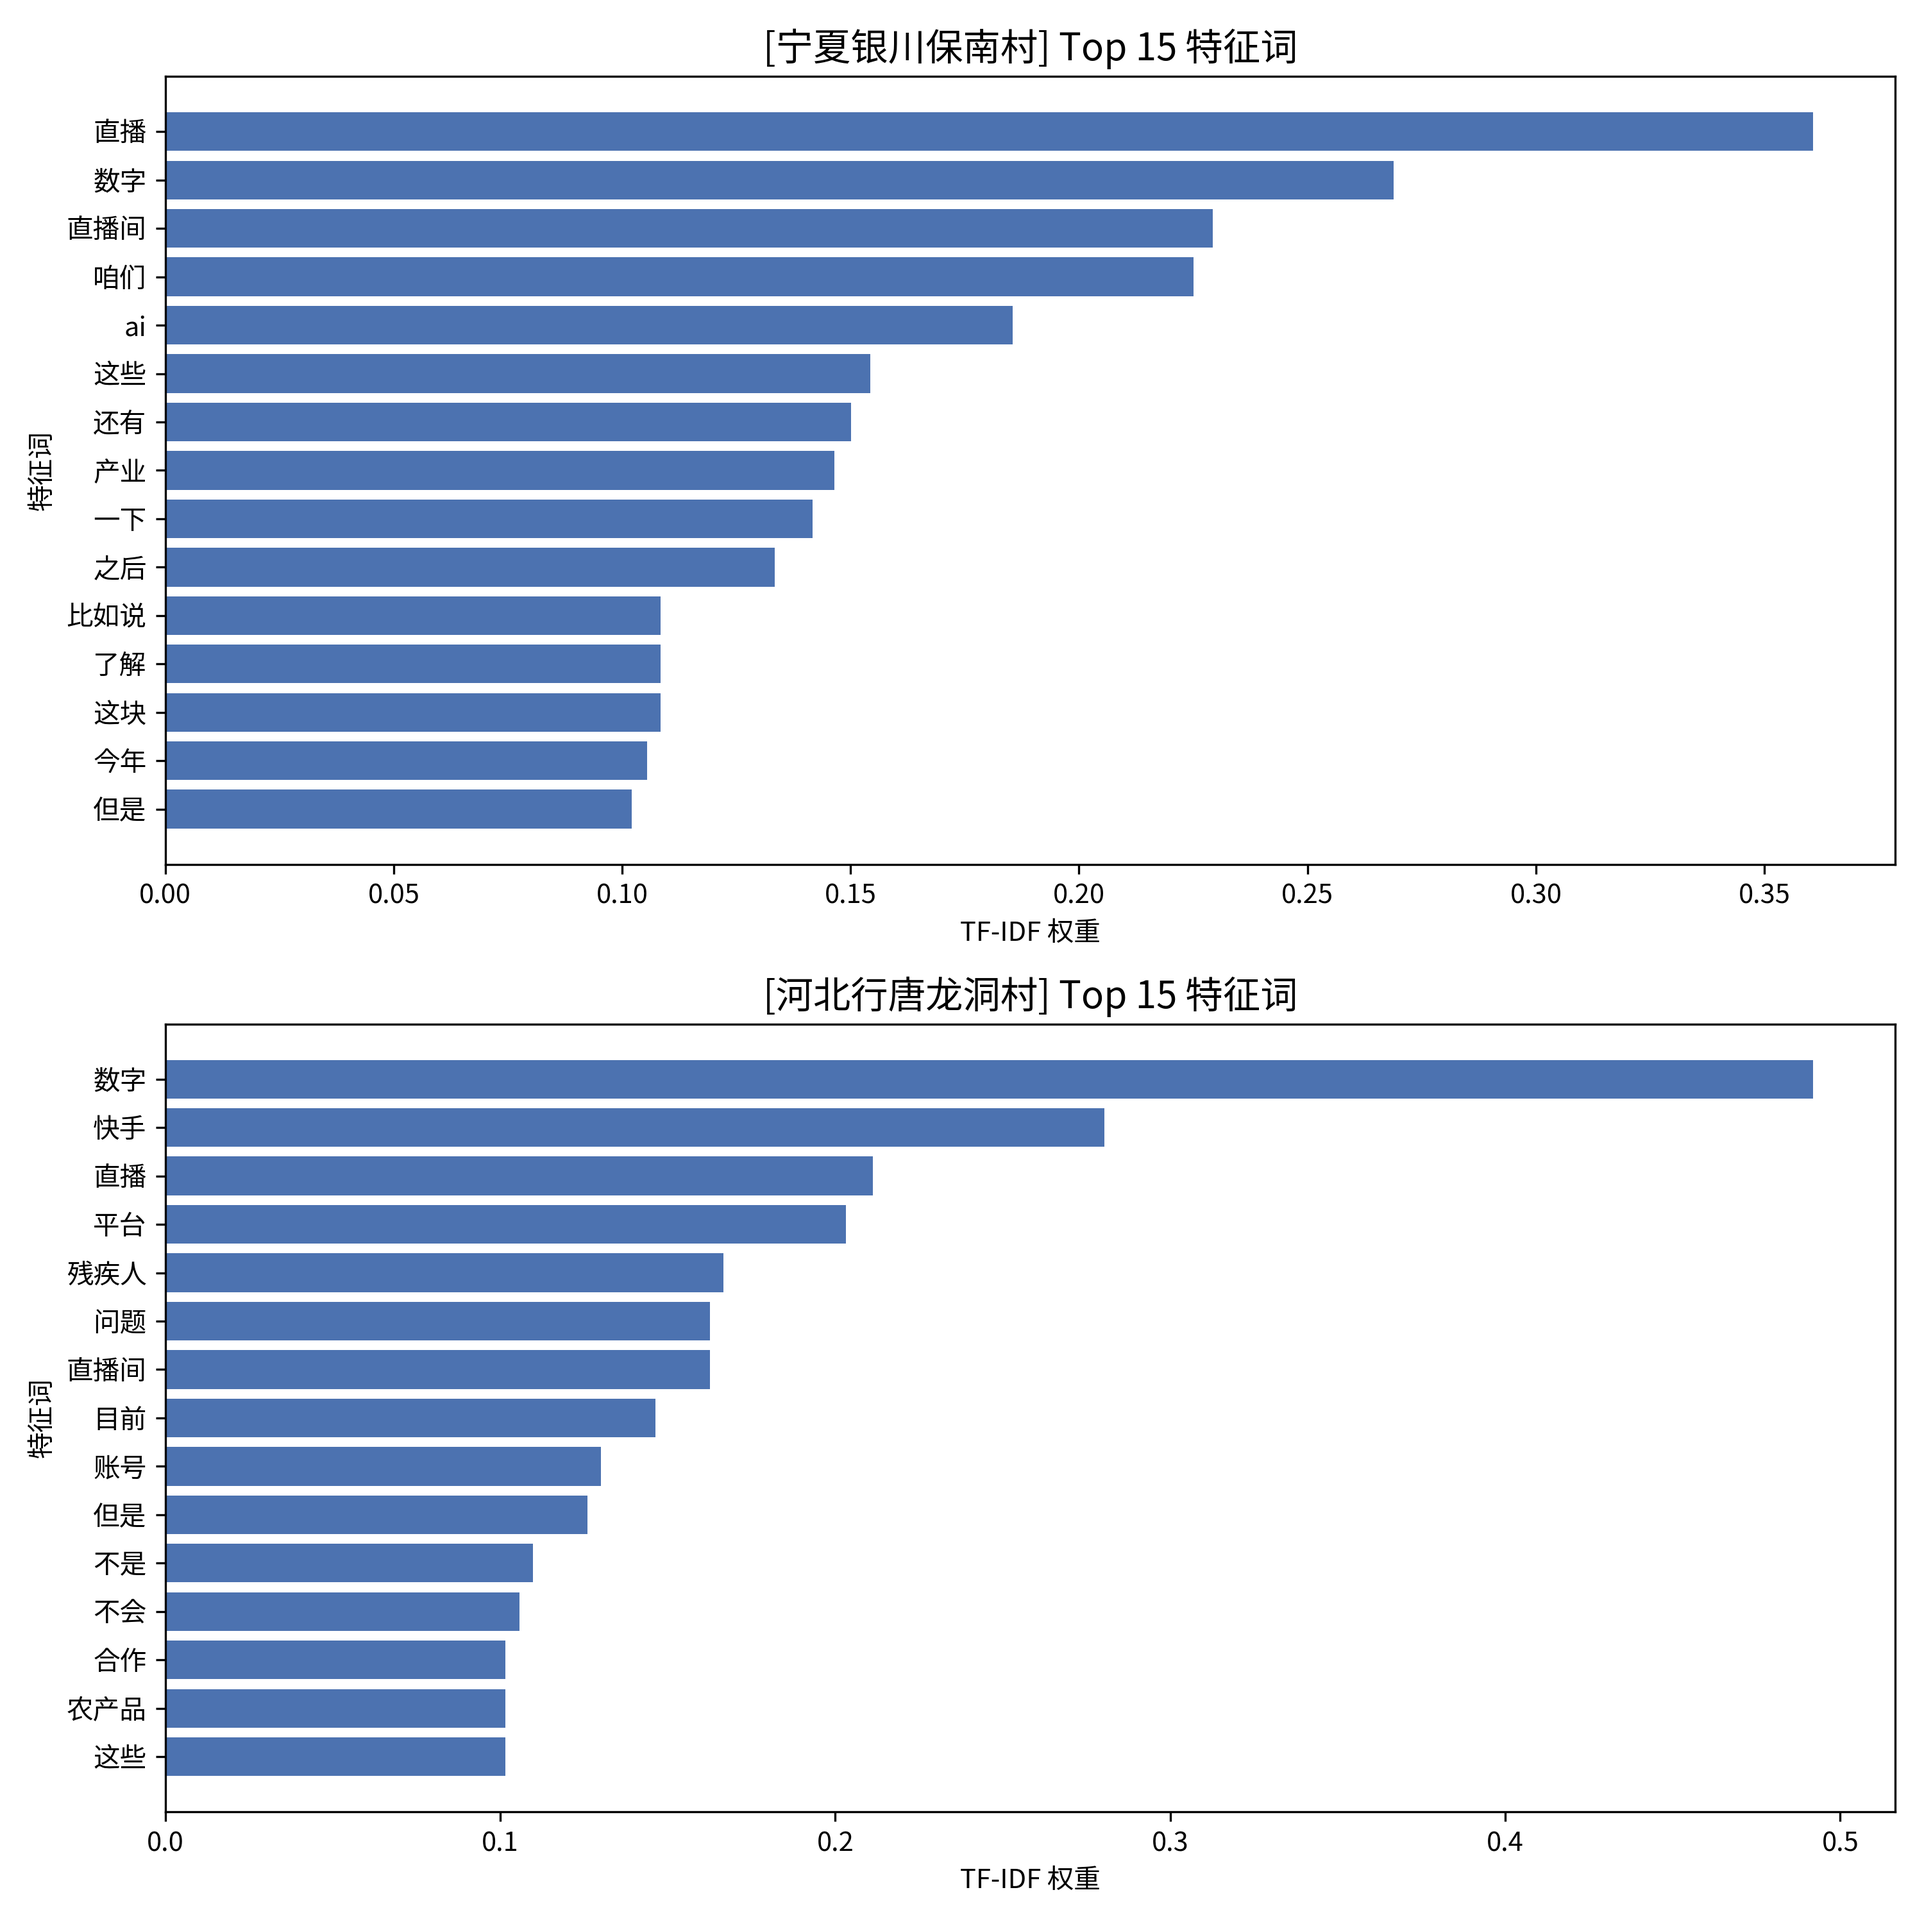
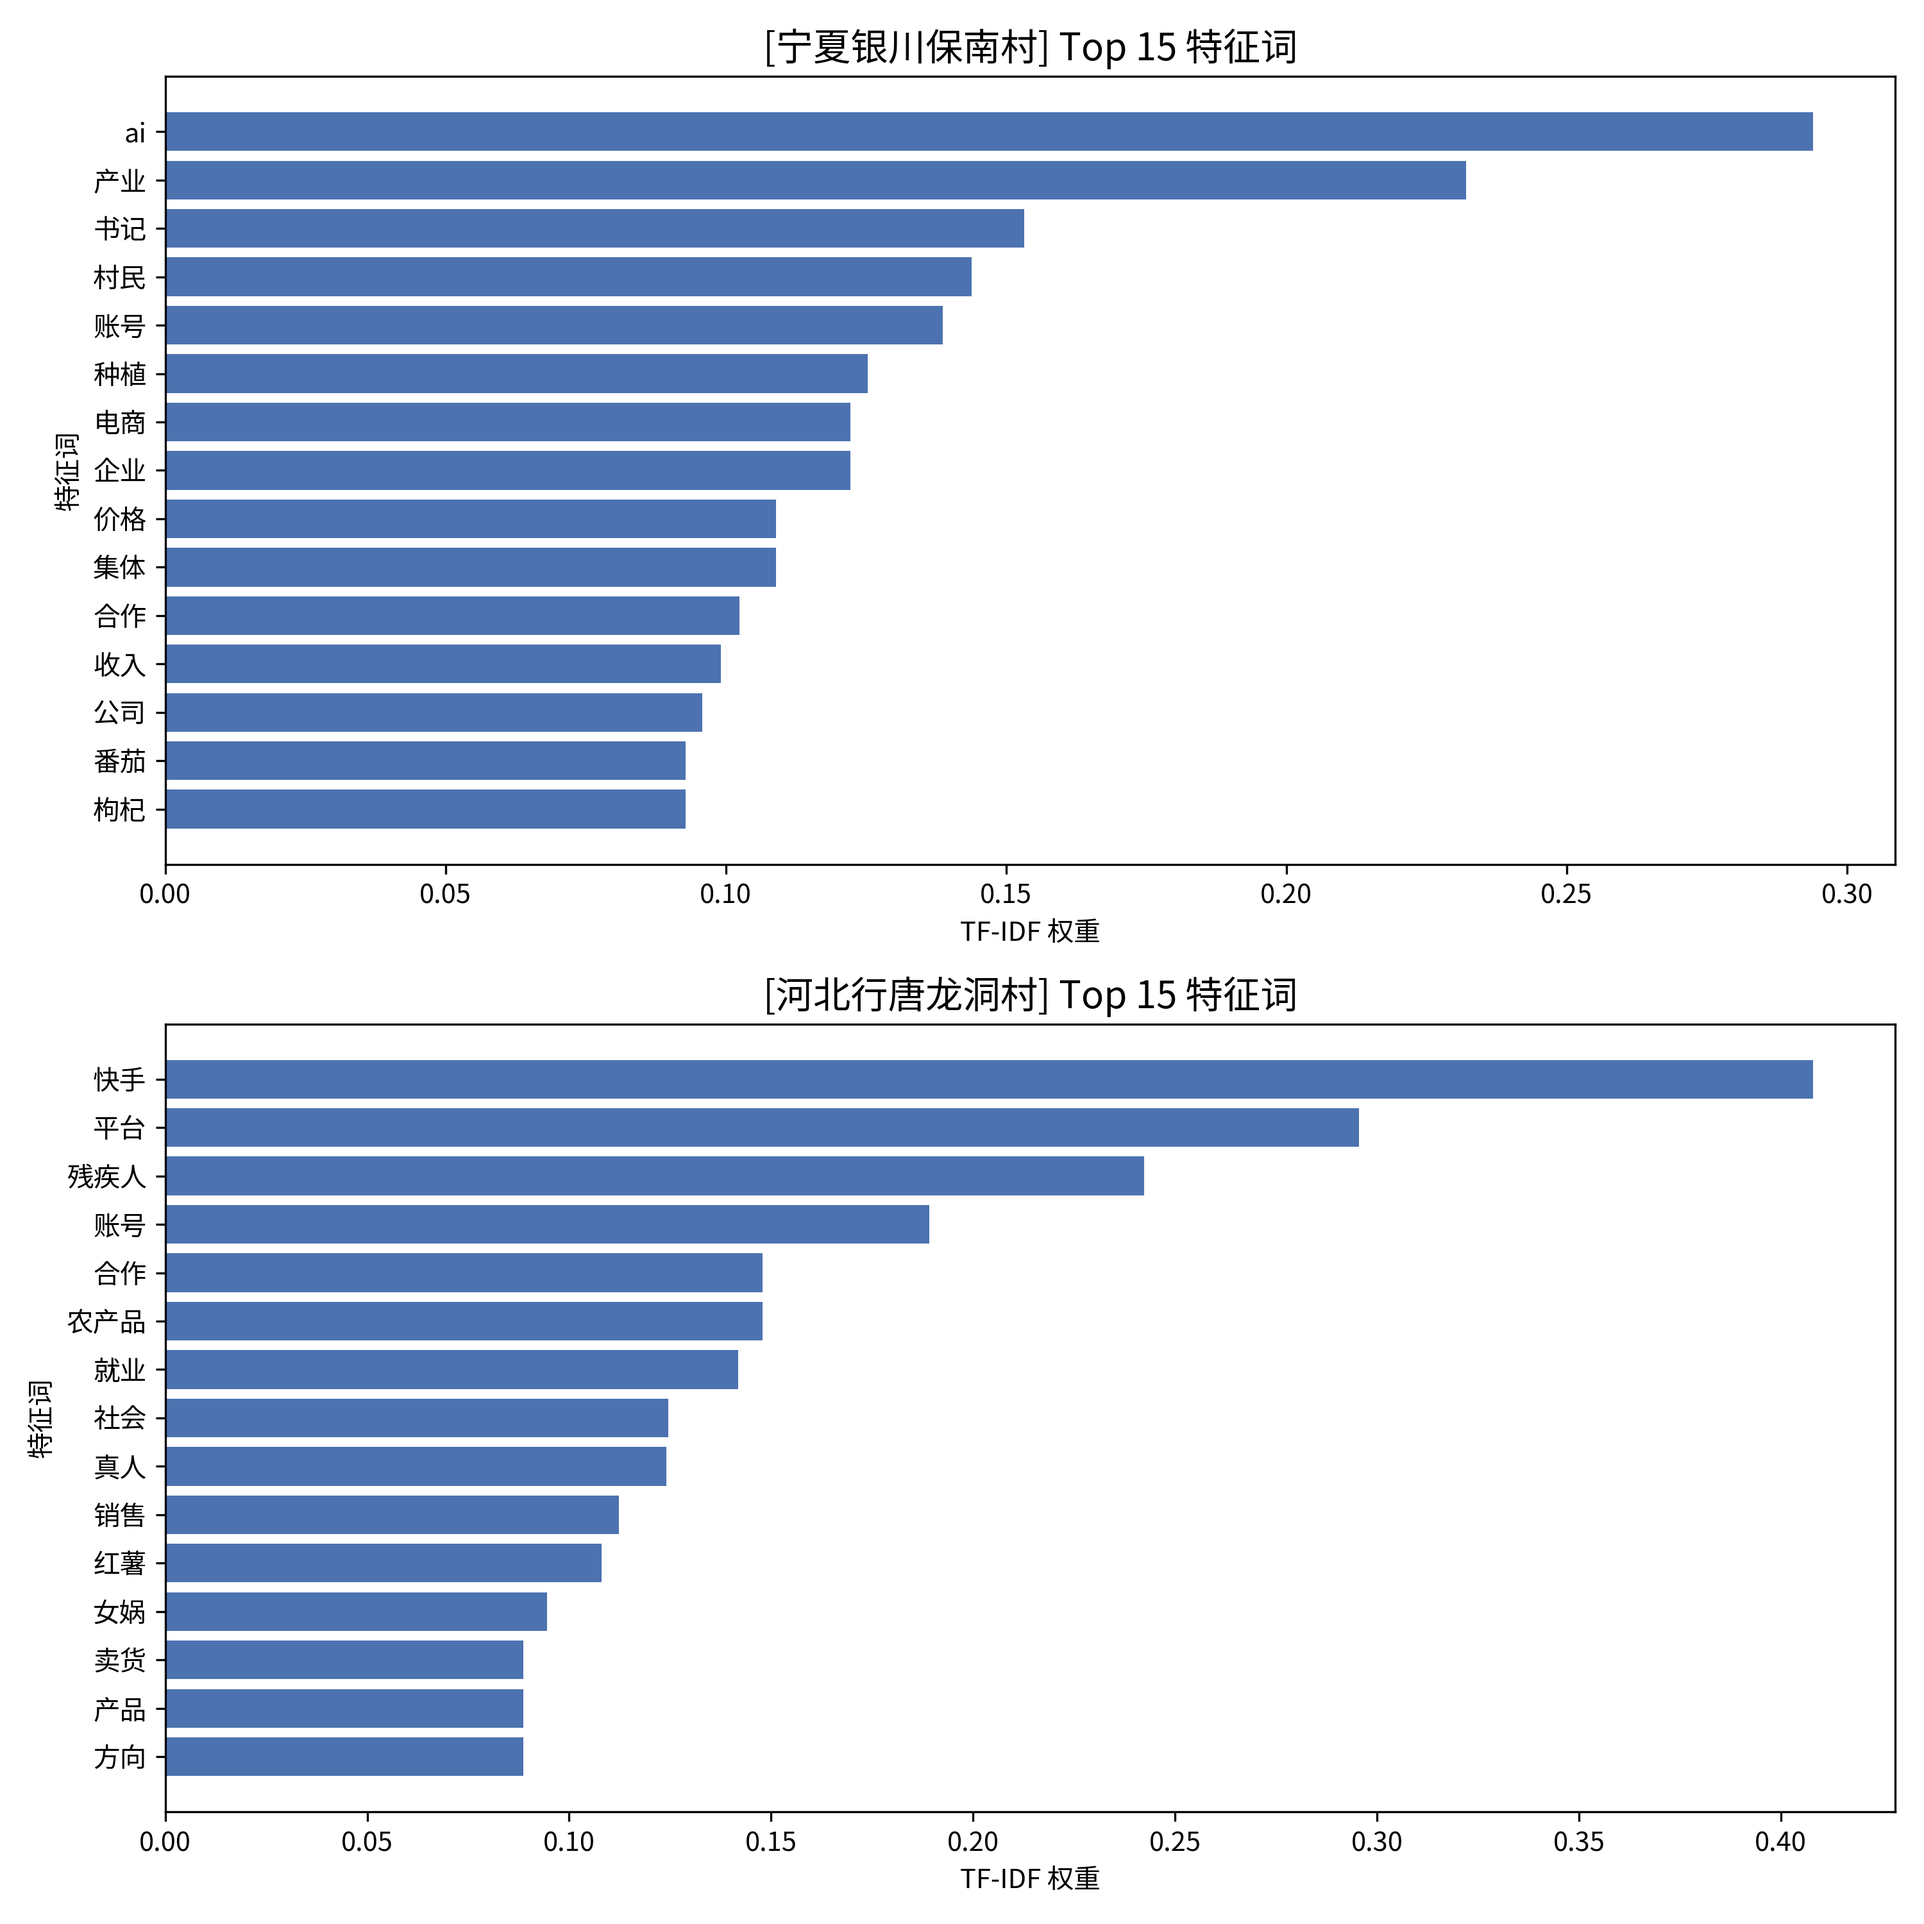
update

diff --git a/src/tf_idf.py b/src/tf_idf.py
@@ -27,10 +27,21 @@ class TfidfAnalyzer:
         
         # 停用词表
         self.stop_words = {
-            "我们", "你们", "他们", "这个", "那个", "然后", "就是", "什么", "怎么", 
-            "可以", "可能", "觉得", "因为", "所以", "如果", "一个", "没有", "现在",
-            "自己", "的话", "还是", "那些", "时候", "出来", "知道", "一样", "一些",
-            "其实", "大家", "比较", "很多", "做", "说", "去", "这", "那", "就", "也", "在", "的"
+            '的', '了', '在', '是', '和', '就', '不', '都', '一', '上', '也', '很', '到', 
+            '说', '去', '会', '着', '没有', '看', '好', '自己', '这', '那', '然后', '就是', 
+            '什么', '怎么', '可以', '可能', '觉得', '因为', '所以', '如果', '一个', '现在',
+            '的话', '还是', '那些', '时候', '出来', '知道', '一样', '一些', '其实', '大家', 
+            '比较', '很多', '做', '对', '哎', '啊', '嗯', '哦', '吧', '呢', '嘛', 
+            '这个', '那个', '咱们', '我们', '你们', '他们', '当时', '后来', '基本上',
+            '直播', '数字', '直播间', '东西', '情况', '方面', '问题', '里头', '应该', '进行',
+            '有', '人', '能', '还', '来', '要', '还有', '包括', '需要', '不会', 
+            '想', '把', '给', '让', '跟', '它', '但', '但是', '只', '又',
+            
+            '像', '问', '肯定', '一般', '直接', '一直', '弄', '比如', '走', '带', '提供',
+            '非常', '特别', '这种', '那种', '一下', '一点', '一定', '或者',
+            '开始', '发现', '产生', '作为', '这些', '之后', '比如说', '这块', '了解', '今年', '一块',
+            '到时候', '那么', '目前', '不是', '为了', '这样', '目的', '其他', '那边', '已经', '过来', '南村',
+            '来说', '解决', '将近', '去年', '考虑', '关键词', '这么'
         }
 
     def load_data(self):
